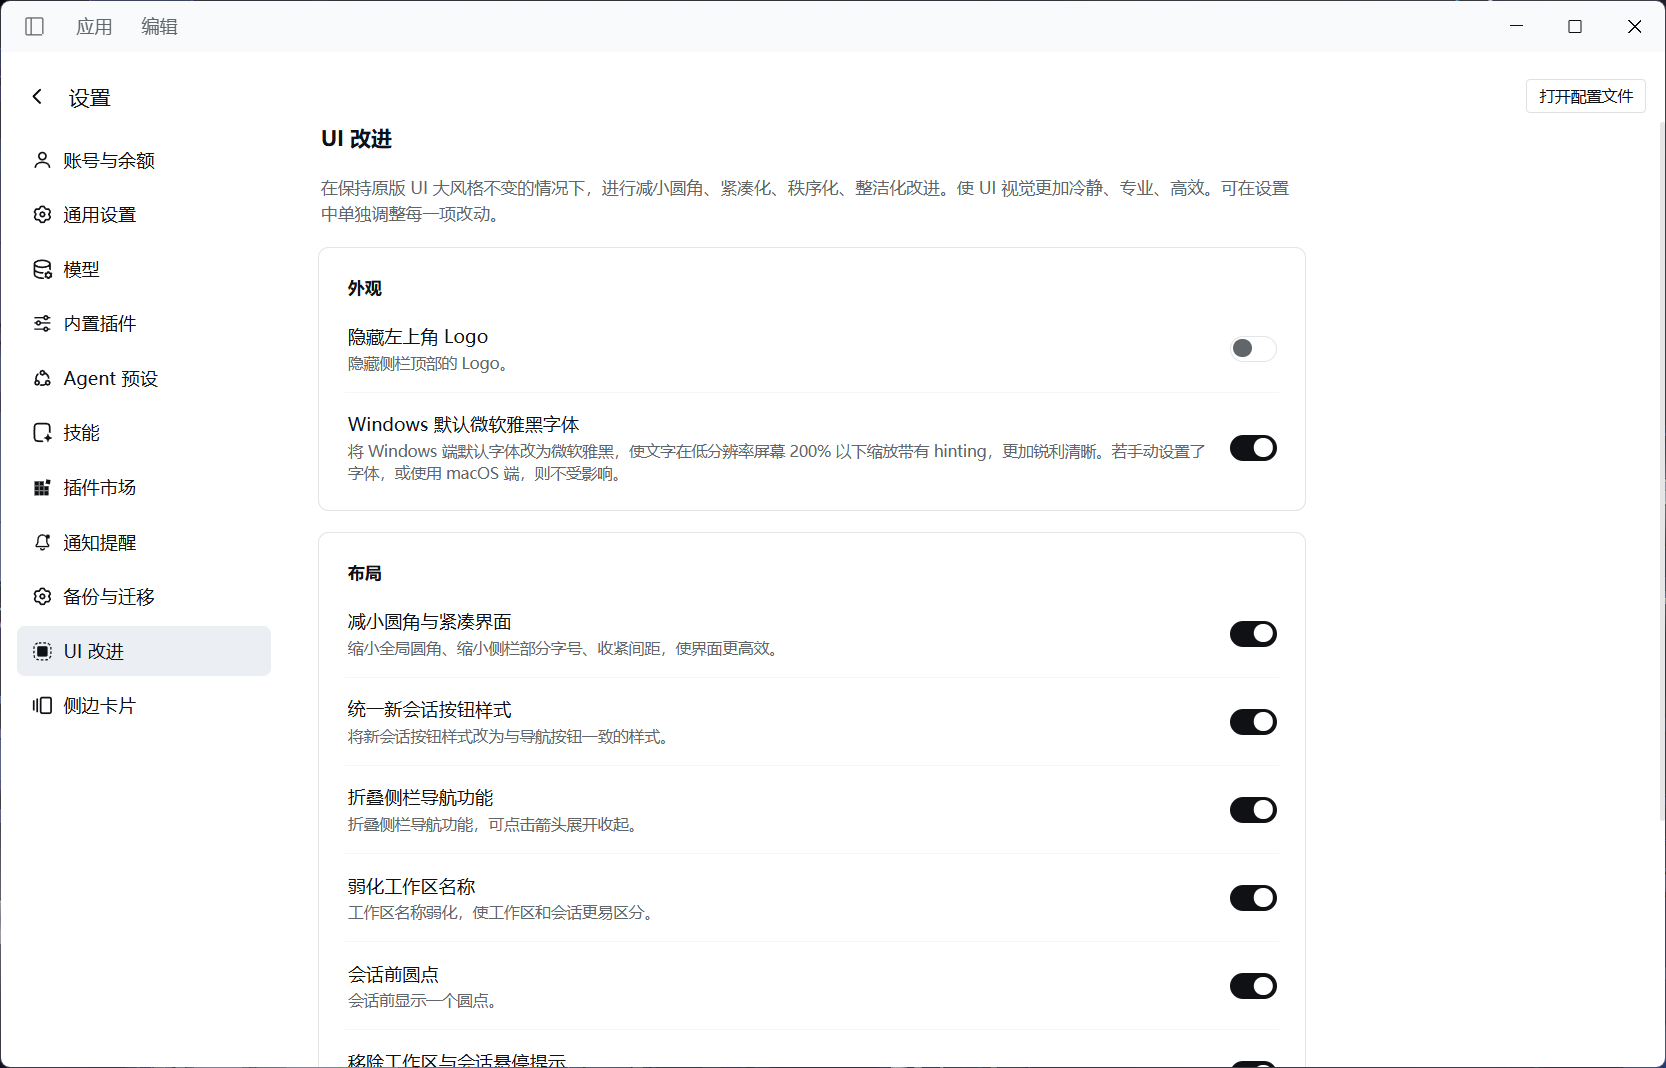
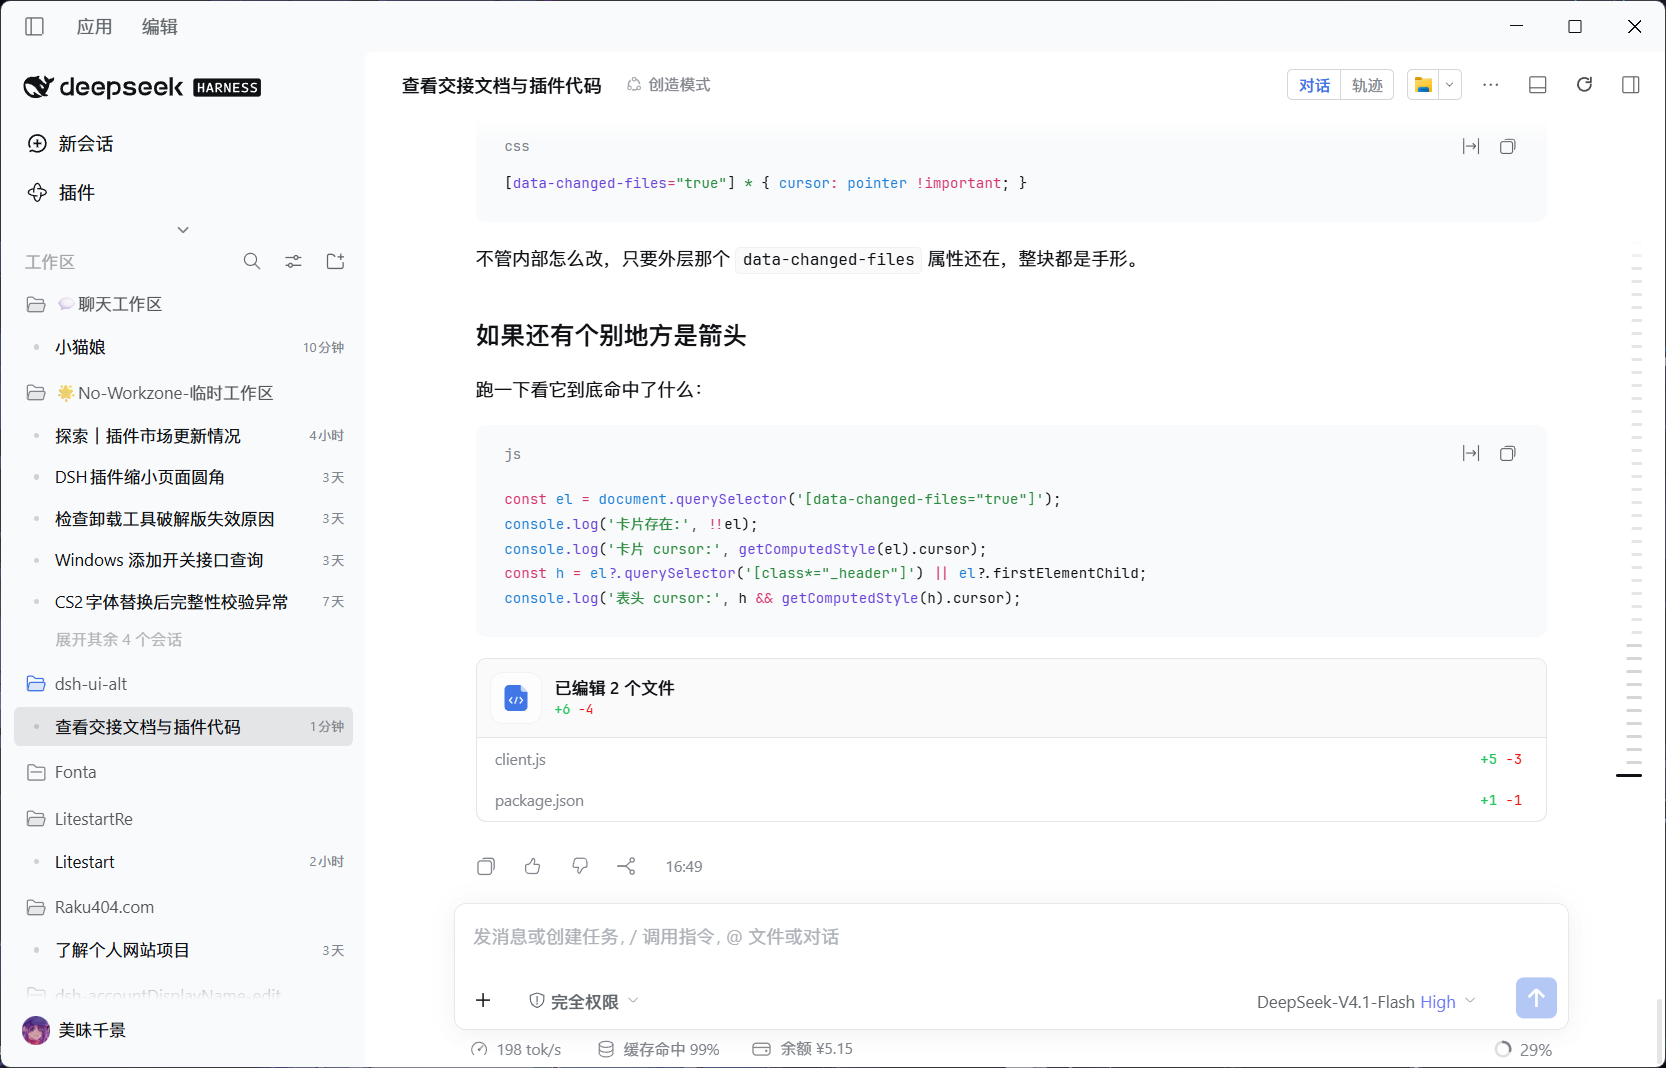
更新截图至 4 张（0.2.88）

diff --git a/client.js b/client.js
@@ -6,7 +6,7 @@ window.__ModuleLoader__.load({
 
     const STORAGE_KEY = 'dsh-ui-alt:prefs:v1';
     /* 发版时与 package.json 的 version 一起改：设置页底部会显示这两个值 */
-    const VERSION = '0.2.87';
+    const VERSION = '0.2.88';
     const UPDATED = '2026-11-11';
     const DEFAULTS = {
       radiusDensity: true,
